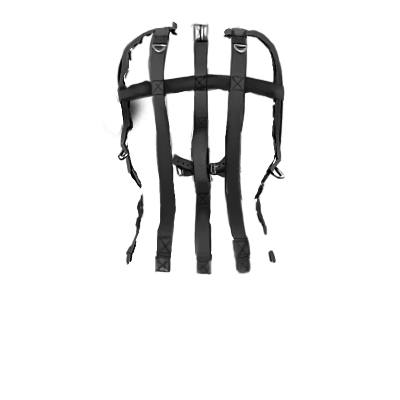
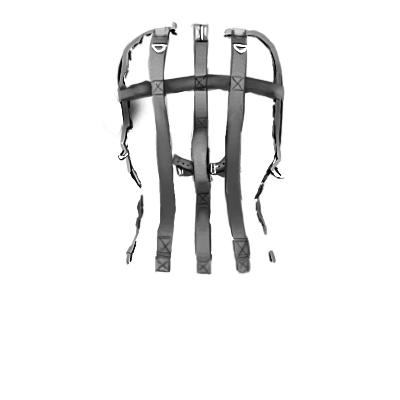
Adds multi-colouring support to the high security straitjacket

diff --git a/BondageClub/Assets/Female3DCG/Female3DCG.js b/BondageClub/Assets/Female3DCG/Female3DCG.js
@@ -1641,22 +1641,22 @@ var AssetFemale3DCG = [
 			},
 			{ Name: "LeatherArmSplints", Value: 65, Fetish: ["Leather"], Difficulty: 7, SelfBondage: 7, Time: 15, RemoveTime: 10, Visible: false, AllowLock: true, SetPose: ["BackElbowTouch"], Effect: ["Block", "Prone"], SelfUnlock: false },
 			{ Name: "TightJacketCrotch", Fetish: ["Leather"], DefaultColor: "#FFFFFF", Value: 150, Difficulty: 6, SelfBondage: 8, Time: 35, RemoveTime: 20, AllowLock: true, Hide: ["Cloth", "ItemNipplesPiercings"], HideItem: ["ClothLowerSkirt1", "ClothLowerSkirt2", "ClothLowerSkirt3", "ClothLowerTennisSkirt1", "ClothLowerGown2Skirt", "ClothLowerWaspie1", "ClothLowerWaspie2", "ClothLowerWaspie3", "ClothLowerLatexSkirt1", "ClothLowerLatexSkirt2", "ClothLowerClothSkirt1", "ClothLowerChineseSkirt1", "ClothLowerAdmiralSkirt", "ClothLowerJeanSkirt", "ClothLowerPencilSkirt"], SetPose: ["BackElbowTouch"], Effect: ["Block", "Prone"], Block: ["ItemNipples", "ItemNipplesPiercings", "ItemTorso", "ItemBreast", "ItemHands", "ItemVulva", "ItemButt", "ItemVulvsPiercings"], BuyGroup: "TightJacket", SelfUnlock: false, Extended: true, AllowType: ["PulledStraps", "LiningStraps", "ExtraPadding", "PulledLining", "PulledPadding", "PaddedLining", "FullJacket"] },
-			{ Name: "HighSecurityStraitJacket", Value: 220, Priority: 25, Difficulty: 4, SelfBondage: 2, Time: 45, RemoveTime: 30, Random: false, AllowLock: true, DefaultColor: "#333", Hide: ["Cloth", "ItemNipplesPiercings"], SetPose: ["BackElbowTouch"], Effect: ["Block", "Prone"],
+			{ Name: "HighSecurityStraitJacket", Value: 220, Priority: 25, Difficulty: 4, SelfBondage: 2, Time: 45, RemoveTime: 30, Random: false, AllowLock: true, DefaultColor: ["#333", "#333", "#3e3e3e", "#3e3e3e"], Hide: ["Cloth", "ItemNipplesPiercings"], SetPose: ["BackElbowTouch"], Effect: ["Block", "Prone"],
 				AllowBlock: ["ItemNipples", "ItemNipplesPiercings", "ItemTorso", "ItemBreast", "ItemHands", "ItemVulva", "ItemVulvaPiercings", "ItemButt", "ItemPelvis"],
 				AllowType: ["c0a0s0", "c0a0s1", "c0a0s2", "c0a0s3", "c0a1s0", "c0a1s1", "c0a1s2", "c0a1s3", "c0a2s0", "c0a2s1", "c0a2s2", "c0a2s3", "c1a0s0", "c1a0s1", "c1a0s2", "c1a0s3", "c1a1s0", "c1a1s1", "c1a1s2", "c1a1s3", "c1a2s0", "c1a2s1", "c1a2s2", "c1a2s3"],
 				Block: ["ItemNipples", "ItemNipplesPiercings", "ItemTorso", "ItemBreast", "ItemHands"],
 				Extended: true,
 				Layer: [
-					{ Name: "Crotch", ParentGroup: null, AllowTypes: ["c1a0s0", "c1a0s1", "c1a0s2", "c1a0s3", "c1a1s0", "c1a1s1", "c1a1s2", "c1a1s3", "c1a2s0", "c1a2s1", "c1a2s2", "c1a2s3"], HasType: false },
-					{ Name: "JacketLoose", ParentGroup: null, AllowTypes: ["c0a0s0", "c0a0s1", "c0a0s2", "c0a0s3", "c1a0s0", "c1a0s1", "c1a0s2", "c1a0s3"], HasType: false},
-					{ Name: "JacketFront", AllowTypes: ["c0a1s0", "c0a1s1", "c0a1s2", "c0a1s3", "c1a1s0", "c1a1s1", "c1a1s2", "c1a1s3"], HasType: false },
-					{ Name: "JacketBack", AllowTypes: ["c0a2s0", "c0a2s1", "c0a2s2", "c0a2s3", "c1a2s0", "c1a2s1", "c1a2s2", "c1a2s3"], HasType: false },
-					{ Name: "StrapsLoose", AllowColorize: false, AllowTypes: ["c0a0s0", "c0a0s1", "c0a0s2", "c0a0s3", "c1a0s0", "c1a0s1", "c1a0s2", "c1a0s3"], HasType: false},
-					{ Name: "StrapsFront", AllowColorize: false, AllowTypes: ["c0a1s0", "c0a1s1", "c0a1s2", "c0a1s3", "c1a1s0", "c1a1s1", "c1a1s2", "c1a1s3"], HasType: false },
-					{ Name: "StrapsBack", AllowColorize: false, AllowTypes: ["c0a2s0", "c0a2s1", "c0a2s2", "c0a2s3", "c1a2s0", "c1a2s1", "c1a2s2", "c1a2s3"], HasType: false },
-					{ Name: "CrotchStrapsSingle", ParentGroup: null, AllowColorize: false, AllowTypes: ["c0a0s1", "c0a1s1", "c0a2s1", "c1a0s1", "c1a1s1", "c1a2s1"], HasType: false },
-					{ Name: "CrotchStrapsDouble", ParentGroup: null, AllowColorize: false, AllowTypes: ["c0a0s2", "c0a1s2", "c0a2s2", "c1a0s2", "c1a1s2", "c1a2s2"], HasType: false },
-					{ Name: "CrotchStrapsTriple", ParentGroup: null, AllowColorize: false, AllowTypes: ["c0a0s3", "c0a1s3", "c0a2s3", "c1a0s3", "c1a1s3", "c1a2s3"], HasType: false },
+					{ Name: "Crotch", ColorGroup: "Canvas", ParentGroup: null, AllowTypes: ["c1a0s0", "c1a0s1", "c1a0s2", "c1a0s3", "c1a1s0", "c1a1s1", "c1a1s2", "c1a1s3", "c1a2s0", "c1a2s1", "c1a2s2", "c1a2s3"], HasType: false },
+					{ Name: "JacketLoose", ColorGroup: "Canvas", ParentGroup: null, AllowTypes: ["c0a0s0", "c0a0s1", "c0a0s2", "c0a0s3", "c1a0s0", "c1a0s1", "c1a0s2", "c1a0s3"], HasType: false},
+					{ Name: "JacketFront", CopyLayerColor: "JacketLoose", AllowTypes: ["c0a1s0", "c0a1s1", "c0a1s2", "c0a1s3", "c1a1s0", "c1a1s1", "c1a1s2", "c1a1s3"], HasType: false },
+					{ Name: "JacketBack", CopyLayerColor: "JacketLoose", AllowTypes: ["c0a2s0", "c0a2s1", "c0a2s2", "c0a2s3", "c1a2s0", "c1a2s1", "c1a2s2", "c1a2s3"], HasType: false },
+					{ Name: "StrapsLoose", ColorGroup: "Straps", AllowTypes: ["c0a0s0", "c0a0s1", "c0a0s2", "c0a0s3", "c1a0s0", "c1a0s1", "c1a0s2", "c1a0s3"], HasType: false},
+					{ Name: "StrapsFront", CopyLayerColor: "StrapsLoose", AllowTypes: ["c0a1s0", "c0a1s1", "c0a1s2", "c0a1s3", "c1a1s0", "c1a1s1", "c1a1s2", "c1a1s3"], HasType: false },
+					{ Name: "StrapsBack", CopyLayerColor: "StrapsLoose", AllowTypes: ["c0a2s0", "c0a2s1", "c0a2s2", "c0a2s3", "c1a2s0", "c1a2s1", "c1a2s2", "c1a2s3"], HasType: false },
+					{ Name: "CrotchStrapsSingle", ColorGroup: "Straps", ParentGroup: null, AllowTypes: ["c0a0s1", "c0a1s1", "c0a2s1", "c1a0s1", "c1a1s1", "c1a2s1"], HasType: false },
+					{ Name: "CrotchStrapsDouble", CopyLayerColor: "CrotchStrapsSingle", ParentGroup: null, AllowTypes: ["c0a0s2", "c0a1s2", "c0a2s2", "c1a0s2", "c1a1s2", "c1a2s2"], HasType: false },
+					{ Name: "CrotchStrapsTriple", CopyLayerColor: "CrotchStrapsSingle", ParentGroup: null, AllowTypes: ["c0a0s3", "c0a1s3", "c0a2s3", "c1a0s3", "c1a1s3", "c1a2s3"], HasType: false },
 				],
 				SelfUnlock: false
 			},
@@ -1665,7 +1665,7 @@ var AssetFemale3DCG = [
 			  Block: ["ItemHands", "ItemVulva", "ItemButt", "ItemVulvaPiercings", "ItemNipplesPiercings"] },
 			{ Name: "PantyhoseBodyOpen", Fetish: ["Nylon"], Value: 75, Priority: 15, Difficulty: 3, SelfBondage: 4, Time: 30, RemoveTime: 20, Random: false, BuyGroup: "PantyhoseBody", AllowPose: ["Kneel"], SetPose: ["BackElbowTouch", "LegsClosed"], Effect: ["Block", "Prone"],
 			  Prerequisite: ["NotHogtied", "NotMounted", "NoFeetSpreader"], Hide: ["Cloth", "ClothLower", "Suit", "SuitLower"], Block: ["ItemHands",  "ItemNipplesPiercings"] },
-			AssetSpankingToys
+			AssetSpankingToys,
 		],
 		Color: ["Default"]
 	},
